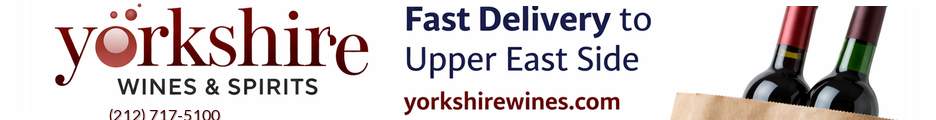
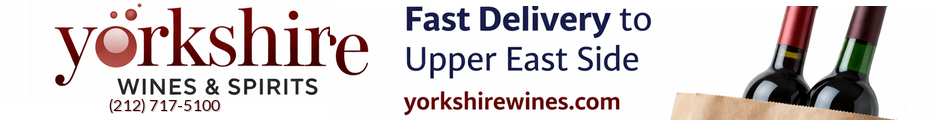
Fix Yorkshire phone cutoff; restyle venue cards
Yorkshire: phone text moved up 10px so it no longer clips at the
image edge.

Venue cards (bars, stores, wineries):
- 'Visit' button shows 'Visit Website' text on hover
- Map pin icon moved to left of address, inline in same row
- Pin icon now hot pink (var(--rose)) fading to muted rose on hover
- Neighborhood/region shown as plain grey text below address,
  no longer clickable or color-changing

Changed region(s): [[0.0929, 0.825, 0.2479, 1.0]]

diff --git a/styles/globals.css b/styles/globals.css
@@ -1289,8 +1289,9 @@ body {
 }
 .store-card-info { flex: 1; min-width: 0; }
 .store-card-name { font-size: 14px; font-weight: 600; color: var(--rose); font-family: var(--font-sans); }
-.store-card-addr { font-size: 12px; color: var(--muted); margin-top: 2px; }
-.store-card-hood { display: none; } /* replaced by map-link--label */
+.store-card-addr-row { display: flex; align-items: center; gap: 2px; margin-top: 2px; }
+.store-card-addr { font-size: 12px; color: var(--muted); }
+.store-card-neighborhood { font-size: 12px; color: var(--muted); margin-top: 2px; }
 .store-card-phone { font-size: 12px; color: var(--muted); text-decoration: none; margin-top: 3px; display: inline-block; }
 .store-card-phone:hover { color: var(--rose); }
 .store-card-link {
@@ -1305,6 +1306,10 @@ body {
   transition: all 0.15s;
 }
 .store-card-link:hover { background: var(--pink-muted); color: white; }
+.store-card-link .visit-default { display: inline; }
+.store-card-link .visit-hover   { display: none; }
+.store-card-link:hover .visit-default { display: none; }
+.store-card-link:hover .visit-hover   { display: inline; }
 /* Store visit button (used on /stores page) */
 .store-visit-btn {
   font-size: 11px;
@@ -1506,15 +1511,14 @@ body {
   border: none;
   padding: 2px 4px;
   border-radius: 4px;
-  color: var(--rose-muted);
+  color: var(--rose);
   cursor: pointer;
   line-height: 1;
-  transition: color 0.15s, background 0.15s;
+  transition: color 0.15s;
   font-family: inherit;
 }
 .map-link:hover {
-  color: var(--rose);
-  background: var(--rose-light);
+  color: var(--rose-muted);
 }
 /* Label variant: pin icon + neighborhood text as one clickable row.
    Uses display:flex (block-level) so it always gets its own row and
@@ -1944,8 +1948,9 @@ body {
 }
 .bar-card-info { flex: 1; min-width: 0; }
 .bar-card-name { font-size: 14px; font-weight: 600; color: var(--rose); font-family: var(--font-sans); }
-.bar-card-addr { font-size: 12px; color: var(--muted); margin-top: 2px; }
-.bar-card-borough { display: none; } /* replaced by map-link--label */
+.bar-card-addr-row { display: flex; align-items: center; gap: 2px; margin-top: 2px; }
+.bar-card-addr { font-size: 12px; color: var(--muted); }
+.bar-card-neighborhood { font-size: 12px; color: var(--muted); margin-top: 2px; }
 .bar-card-phone { font-size: 12px; color: var(--muted); text-decoration: none; margin-top: 3px; display: inline-block; }
 .bar-card-phone:hover { color: var(--rose); }
 .bar-card-link {
@@ -1960,6 +1965,10 @@ body {
   transition: all 0.15s;
 }
 .bar-card-link:hover { background: var(--pink-muted); color: white; }
+.bar-card-link .visit-default { display: inline; }
+.bar-card-link .visit-hover   { display: none; }
+.bar-card-link:hover .visit-default { display: none; }
+.bar-card-link:hover .visit-hover   { display: inline; }
 
 .bar-see-all {
   display: block;

diff --git a/components/StoresSection.jsx b/components/StoresSection.jsx
@@ -144,15 +144,19 @@ export default function StoresSection() {
                 </div>
                 {store.website && (
                   <a href={store.website} target="_blank" rel="noopener noreferrer" className="store-card-link">
-                    Visit →
+                    <span className="visit-default">Visit →</span>
+                    <span className="visit-hover">Visit Website →</span>
                   </a>
                 )}
               </div>
-              {/* Right column: name, address, location button, phone */}
+              {/* Right column: name, address+pin, neighborhood, phone */}
               <div className="store-card-info">
                 <div className="store-card-name">{store.name}</div>
-                <div className="store-card-addr">{store.address}</div>
-                <MapLink name={store.name} address={store.address} label={store.neighborhood} />
+                <div className="store-card-addr-row">
+                  <MapLink name={store.name} address={store.address} />
+                  <span className="store-card-addr">{store.address}</span>
+                </div>
+                <div className="store-card-neighborhood">{store.neighborhood}</div>
                 {store.phone && (
                   <a href={`tel:${store.phone}`} className="store-card-phone">{store.phone}</a>
                 )}

diff --git a/components/WineBarsSection.jsx b/components/WineBarsSection.jsx
@@ -130,15 +130,19 @@ export default function WineBarsSection() {
                 </div>
                 {bar.website && (
                   <a href={bar.website} target="_blank" rel="noopener noreferrer" className="bar-card-link">
-                    Visit →
+                    <span className="visit-default">Visit →</span>
+                    <span className="visit-hover">Visit Website →</span>
                   </a>
                 )}
               </div>
-              {/* Right column: name, address, location button, phone */}
+              {/* Right column: name, address+pin, neighborhood, phone */}
               <div className="bar-card-info">
                 <div className="bar-card-name">{bar.name}</div>
-                <div className="bar-card-addr">{bar.address}</div>
-                <MapLink name={bar.name} address={bar.address} label={bar.neighborhood || bar.borough} />
+                <div className="bar-card-addr-row">
+                  <MapLink name={bar.name} address={bar.address} />
+                  <span className="bar-card-addr">{bar.address}</span>
+                </div>
+                <div className="bar-card-neighborhood">{bar.neighborhood || bar.borough}</div>
                 {bar.phone && (
                   <a href={`tel:${bar.phone}`} className="bar-card-phone">{bar.phone}</a>
                 )}

diff --git a/components/WineriesSection.jsx b/components/WineriesSection.jsx
@@ -117,15 +117,19 @@ export default function WineriesSection() {
                 </div>
                 {winery.website && (
                   <a href={winery.website} target="_blank" rel="noopener noreferrer" className="bar-card-link">
-                    Visit →
+                    <span className="visit-default">Visit →</span>
+                    <span className="visit-hover">Visit Website →</span>
                   </a>
                 )}
               </div>
-              {/* Right column: name, address, region+pin, phone */}
+              {/* Right column: name, address+pin, region, phone */}
               <div className="bar-card-info">
                 <div className="bar-card-name">{winery.name}</div>
-                <div className="bar-card-addr">{winery.address}</div>
-                <MapLink name={winery.name} address={winery.address} label={winery.region} />
+                <div className="bar-card-addr-row">
+                  <MapLink name={winery.name} address={winery.address} />
+                  <span className="bar-card-addr">{winery.address}</span>
+                </div>
+                <div className="bar-card-neighborhood">{winery.region}</div>
                 {winery.phone && (
                   <a href={`tel:${winery.phone}`} className="bar-card-phone">{winery.phone}</a>
                 )}
